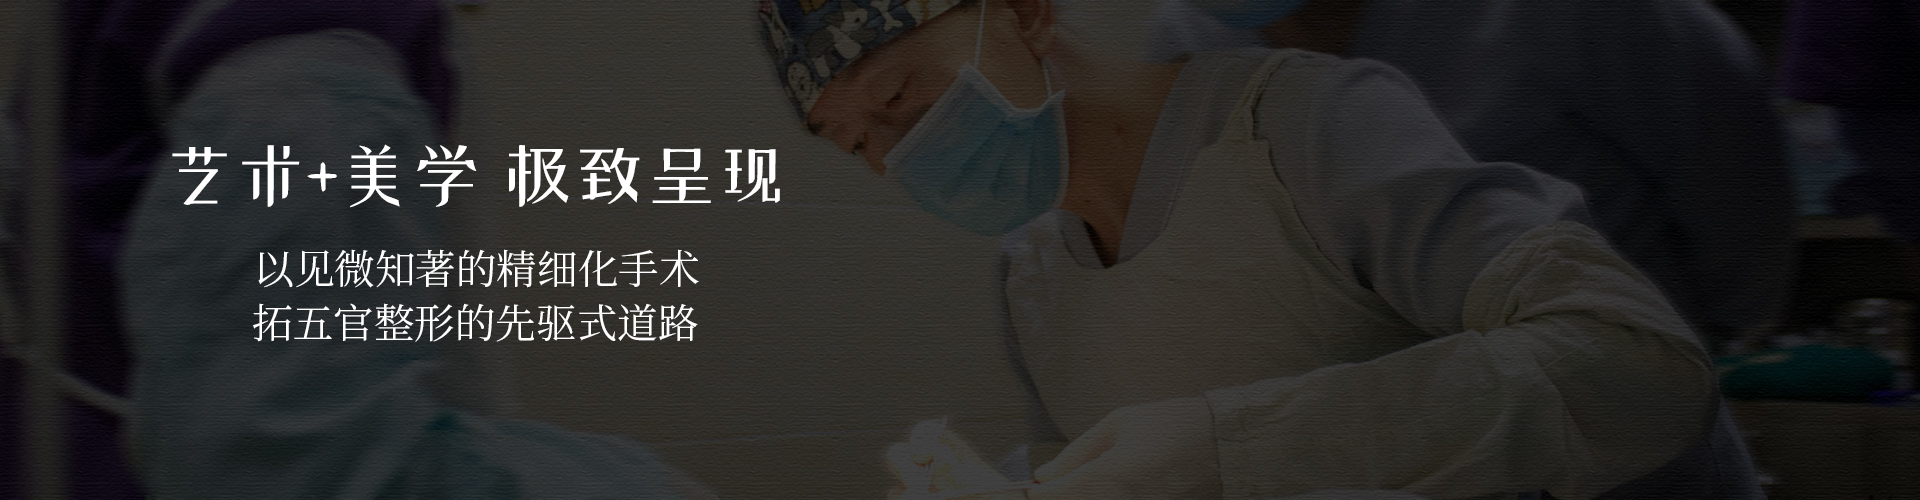
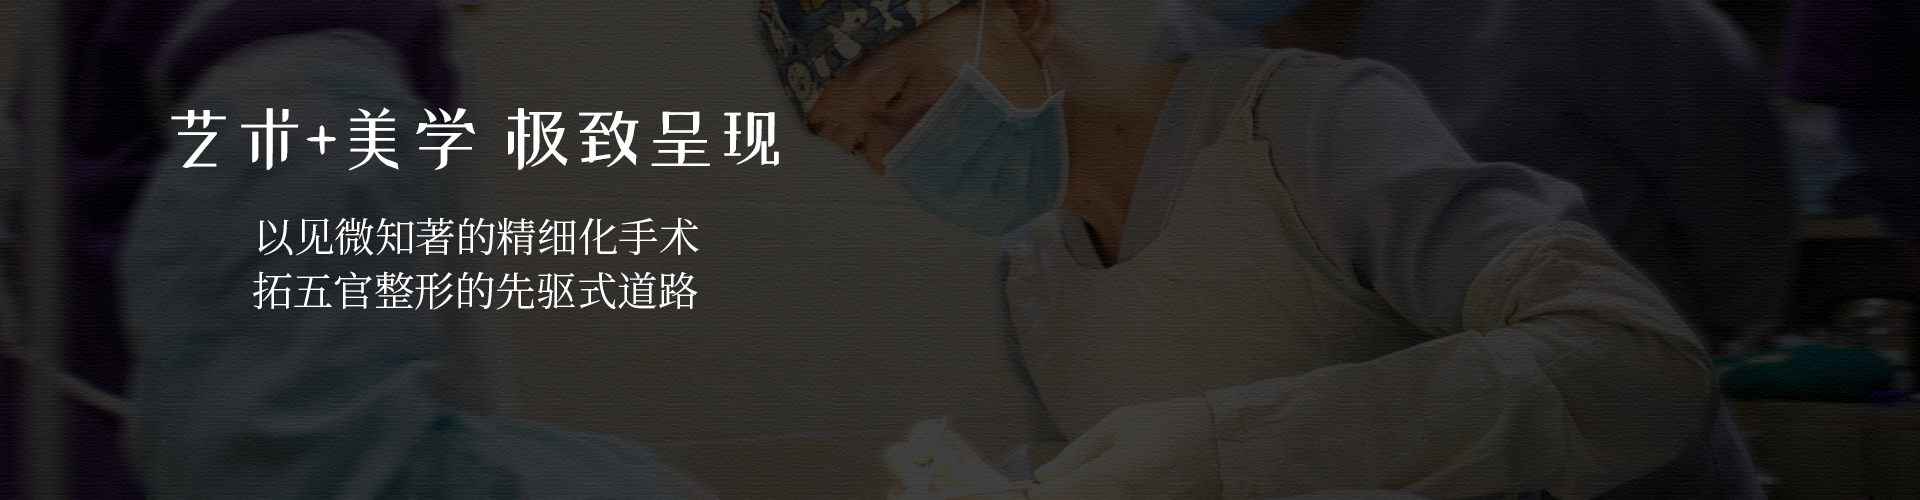
web

Changed region(s): [[0.0938, 0.21, 0.4062, 0.69]]

diff --git a/public/css/common.css b/public/css/common.css
@@ -397,14 +397,17 @@ img {
     border-top-right-radius: 5px;
     border-bottom-left-radius: 5px;
     border-bottom-right-radius: 5px;
-    background: #6a9bd3;
-    box-shadow: 0px 5px 30px 0px rgba(129, 5, 7, 0.6);
+    /* background: #6a9bd3; */
+    background-image: url(/image/nav.png);
+    background-repeat-x: repeat;
+    background-size: 100%;
+    /* box-shadow: 0px 5px 30px 0px rgba(129, 5, 7, 0.6);
     -webkit-box-shadow: 0px 5px 30px 0px rgba(129, 5, 7, 0.6);
     -moz-box-shadow: 0px 5px 30px 0px rgba(129, 5, 7, 0.6);
     overflow: hidden;
     transition: background 0.3s linear 0s;
     -webkit-transition: background 0.3s linear 0s;
-    -moz-transition: background 0.3s linear 0s;
+    -moz-transition: background 0.3s linear 0s; */
 }
 
 .navlist.navBg {

diff --git a/resources/views/layouts/common.blade.php b/resources/views/layouts/common.blade.php
@@ -41,7 +41,7 @@
 	<section class="headerAll" id="headerAll">
         <section class="bannerBz">
             <div class="bannerPic relative">
-                <img src="{{ asset('image') }}/534.png" alt="" />
+                <img src="{{ asset('image') }}/534.jpg" alt="" />
             </div>
             <div class="topIdex absolute">
                 <img style="width: 277px; height: 40px;" src="{{ asset('image') }}/logo2.png" alt="">
